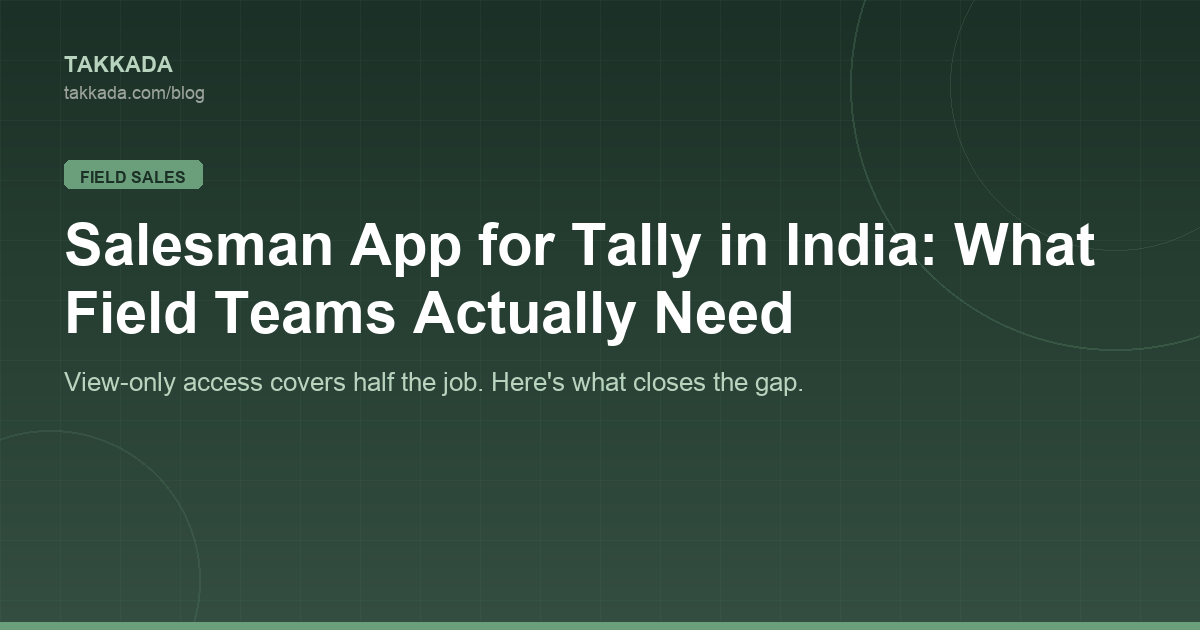
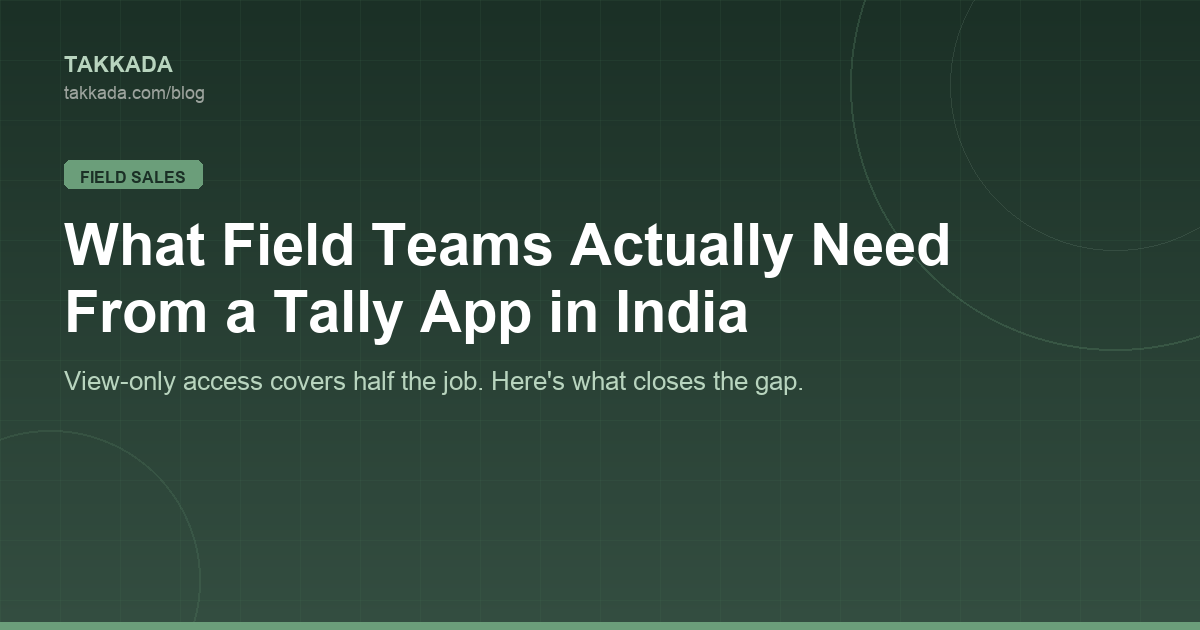
fix(features): resolve adversarial, testing and altitude findings
The retitled posts still shipped their old header images. Those PNGs are
both the og:image and the visible hero, generated from a hardcoded title
table in generate-blog-images.py that nobody updated. view-tally-reports
literally rendered "View Tally Reports on Mobile" — the exact head phrase
the retitle existed to stop competing on — while its alt text carried the
new title. Both regenerated; the table is now the corrected source.

Guards:
- checkRoutePrerender walks routeMetadata and fails on any route that
  produced no HTML or an empty #root. Between them the two existing
  prerender guards covered 2 of 41 routes, so the 26 feature landing
  pages this whole change exists to promote had none. Verified by
  emptying /salesman-app-tally and watching it get named.

Tests:
- The title-collision rule is now derived across all 168 posts instead of
  a 4-row allow-list. Measured first: it passes corpus-wide today, so
  deriving it costs nothing and covers every post written from here.
- Replaced a floor test that asserted a property of ?? (and went red on
  success, when every page earns a floor) with one that fails upward:
  a page that has outgrown the default must be ratcheted.
- Pinned every CollectionPage ListItem field and both CTA contexts. Both
  verified red before being accepted.

diff --git a/src/data/__tests__/blog-internal-links.test.js b/src/data/__tests__/blog-internal-links.test.js
@@ -107,10 +107,18 @@ describe('blog internal links', () => {
     expect(Object.keys(LINK_FLOORS).filter((slug) => !known.has(slug))).toEqual([]);
   });
 
-  it('holds an unfloored page to one link, so a new feature page starts cheap', () => {
-    const unfloored = FEATURE_PAGES.filter((p) => !(p.slug in LINK_FLOORS));
-    expect(unfloored.length).toBeGreaterThan(0);
-    for (const page of unfloored) expect(floorFor(page.slug)).toBe(1);
+  // A page that has quietly earned depth should be ratcheted, not left at the
+  // default where the depth can drain away unnoticed. This is the half of the
+  // ratchet that fails upward; every other assertion here only fails downward.
+  it('has a floor for every page that has outgrown the default', () => {
+    const unratcheted = FEATURE_PAGES.filter(
+      (page) => !(page.slug in LINK_FLOORS) && inboundLinks(page).length > DEFAULT_FLOOR
+    ).map((page) => `${page.slug} (${inboundLinks(page).length} links)`);
+    expect(
+      unratcheted,
+      'These pages now have more inbound links than the default floor protects. ' +
+        'Add them to LINK_FLOORS at their current count so the depth cannot drain away.'
+    ).toEqual([]);
   });
 
   // The cannibalisation guard. A post using a feature page's exact search
@@ -140,19 +148,18 @@ describe('blog internal links', () => {
   );
 });
 
-// Four posts used to chase the same phrase as one of the feature landing
-// pages, so the site was bidding against itself for the head term and the
-// blog post, being older, usually won. They were retitled to narrower angles
-// (URLs untouched, so the inbound equity survived) and each was given a link
-// up to its feature page inside the lead answer. Both halves are pinned here:
-// a future edit that re-leads a title with the head phrase, or drops the link
-// back out of the lead, reintroduces exactly the problem this fixed.
-// Two of the four (the reminder how-to and the reports owner's guide) already
-// led with something other than the head phrase and were not retitled; they are
-// pinned here prospectively, so the guard is forward-looking for them rather
-// than a record of a change. `startsWith` is the deliberate predicate, not
-// `includes`: the reminder post's title legitimately contains "Payment Reminder
-// From Tally" mid-sentence, and only leading with the phrase is the collision.
+// Four posts chased the same head phrase as one of the feature landing pages,
+// so the site bid against itself and the older blog post usually won. Three
+// were retitled to narrower angles (URLs untouched, so the inbound equity
+// survived); the fourth, the reminder how-to, kept its title because it already
+// led with "How to Send a" rather than the head phrase, and only the leading
+// position is the collision.
+//
+// The title half of this guard is now derived across the whole corpus above.
+// What stays listed here is the link half: each of these four carries a link up
+// to its feature page inside the lead answer, which is the passage a citation
+// engine lifts. Only 4 of 104 relatedPosts pairs do that, so it is a narrow
+// ratchet on the posts that were deliberately repositioned, not a general rule.
 const RETITLED = [
   ['tally-on-mobile', 'tally-on-mobile'],
   ['view-tally-reports-on-mobile', 'tally-reports-on-mobile'],
@@ -169,10 +176,22 @@ describe('retitled posts stay off their feature page\'s head phrase', () => {
     expect(pageNamed(pageSlug)).toBeDefined();
   });
 
-  it.each(RETITLED)('%s: title does not lead with the feature page phrase', (postSlug, pageSlug) => {
-    const title = matter(postNamed(postSlug).body).data.title ?? '';
-    const phrase = pageNamed(pageSlug).searchPhrase;
-    expect(title.toLowerCase().startsWith(phrase.toLowerCase())).toBe(false);
+  // Derived, not listed. An allow-list would protect only the posts already
+  // fixed and stay silent when next month's post leads with a head phrase,
+  // which is how this cannibalisation started.
+  it('no post title leads with any feature page search phrase', () => {
+    const phrases = FEATURE_PAGES.map((p) => p.searchPhrase.toLowerCase());
+    const colliding = [];
+    for (const { file, body } of POSTS) {
+      const title = (matter(body).data.title ?? '').toLowerCase();
+      const hit = phrases.find((phrase) => title.startsWith(phrase));
+      if (hit) colliding.push(`${file}: "${hit}..."`);
+    }
+    expect(
+      colliding,
+      'A post whose title leads with a feature page\'s exact search phrase competes ' +
+        'with that page for its own head term. Narrow the post title.'
+    ).toEqual([]);
   });
 
   // "The lead answer" is defined once, by the guard that owns the convention

diff --git a/src/routes/__tests__/features-hub.test.jsx b/src/routes/__tests__/features-hub.test.jsx
@@ -13,6 +13,7 @@ import Features from '../Features';
 import { FEATURE_PAGES, featurePagePath } from '../../data/featurePages';
 import { FEATURE_BLURBS, FEATURE_GROUPS } from '../../data/featureGroups';
 import { routeMetadata } from '../../data/siteMetadata';
+import { WHATSAPP_MESSAGES } from '../../lib/whatsapp';
 
 afterEach(cleanup);
 
@@ -104,6 +105,38 @@ describe('/features hub', () => {
     const crumbs = byType(schemas, 'BreadcrumbList');
     expect(crumbs).toBeDefined();
     expect(crumbs.itemListElement.at(-1).item).toBe('https://takkada.com/features/');
+  });
+
+  // The schema is the whole reason a crawler reads this page as a directory, so
+  // every ListItem field is pinned. Asserting only @type and numberOfItems let a
+  // relative url or a dropped description through with the suite green.
+  it('gives every ListItem an absolute url, a name and a description', () => {
+    const { schemas } = renderHub();
+    const items = byType(schemas, 'CollectionPage').mainEntity.itemListElement;
+    const bySlug = new Map(FEATURE_PAGES.map((p) => [featurePagePath(p), p]));
+
+    items.forEach((item, i) => {
+      expect(item.position, item.name).toBe(i + 1);
+      expect(item.url, item.name).toMatch(/^https:\/\/takkada\.com\/[a-z0-9-]+\/$/);
+      const page = bySlug.get(new URL(item.url).pathname.replace(/\/$/, ''));
+      expect(page, `${item.url} is not a feature page`).toBeDefined();
+      expect(item.name).toBe(page.llms.title);
+      expect(item.description).toBe(FEATURE_BLURBS[page.slug]);
+    });
+  });
+
+  // An unknown CTA context silently falls back to the generic message, costing
+  // the founder the triage signal the whole map exists for. Only a console.warn
+  // marks it, and the suite already ignores those.
+  it('wires both CTAs to the hub WhatsApp context, not the default message', () => {
+    const { container } = renderHub();
+    const wa = [...container.querySelectorAll('a[href^="https://wa.me/"]')];
+    expect(wa.length).toBeGreaterThan(0);
+    for (const link of wa) {
+      const text = decodeURIComponent(link.getAttribute('href').split('?text=')[1] ?? '');
+      expect(text).toBe(WHATSAPP_MESSAGES['features-hub']);
+      expect(text).not.toBe(WHATSAPP_MESSAGES.default);
+    }
   });
 });
 

diff --git a/scripts/generate-blog-images.py b/scripts/generate-blog-images.py
@@ -182,7 +182,7 @@ ARTICLES = [
     },
     {
         "slug": "salesman-app-tally-india",
-        "title": "Salesman App for Tally in India: What Field Teams Actually Need",
+        "title": "What Field Teams Actually Need From a Tally App in India",
         "category": "Field Sales",
         "tagline": "View-only access covers half the job. Here's what closes the gap.",
     },
@@ -332,7 +332,7 @@ ARTICLES = [
     },
     {
         "slug": "view-tally-reports-on-mobile",
-        "title": "View Tally Reports on Mobile",
+        "title": "The Five Reports an Owner Actually Opens on a Phone",
         "category": "Tally Mobile",
         "tagline": "The five reports a distributor reads from the phone every day.",
     },
